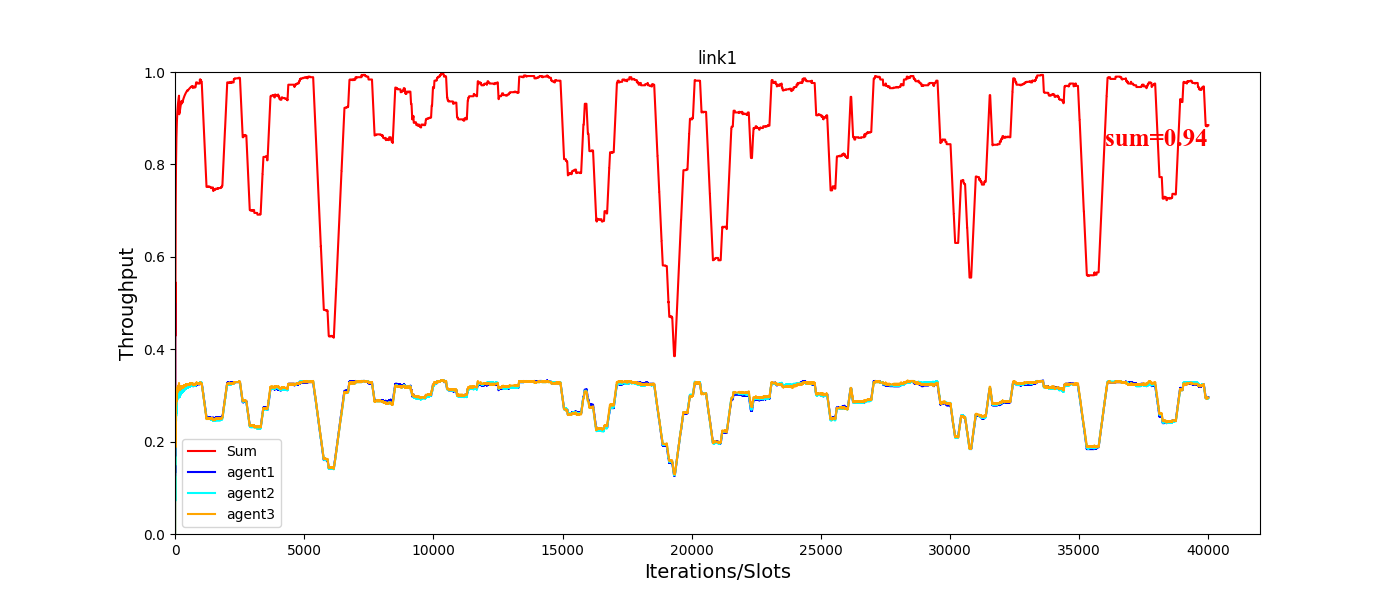
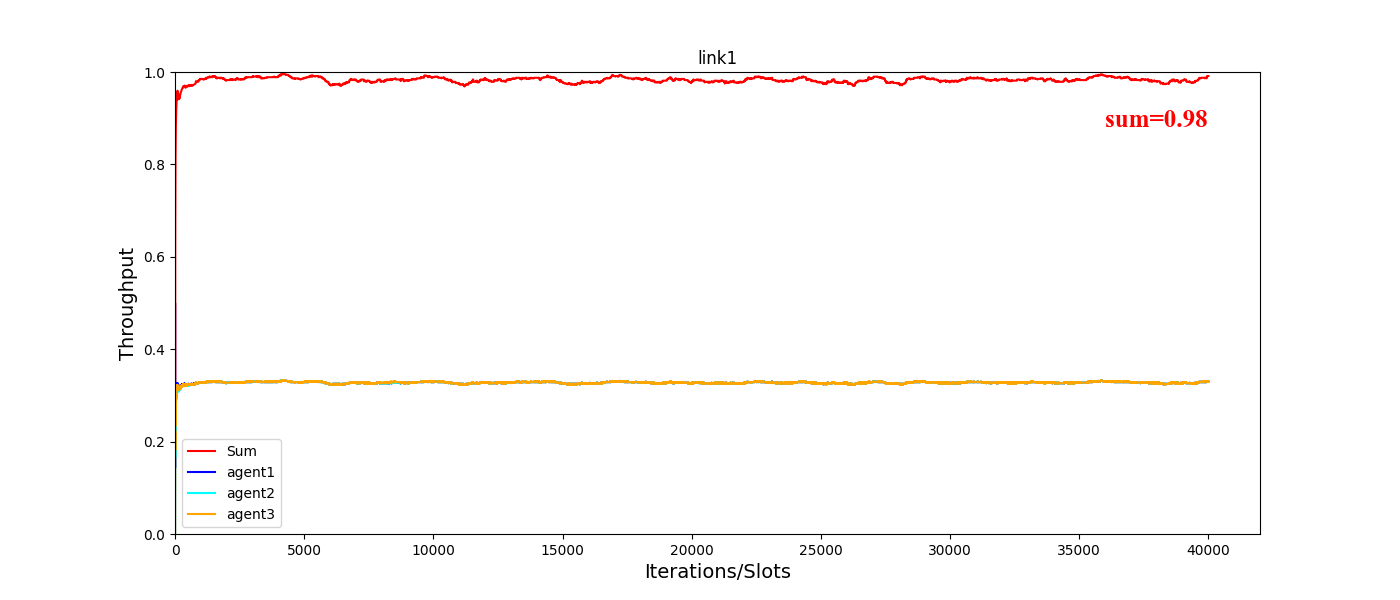
update

diff --git a/simulation.py b/simulation.py
@@ -51,7 +51,7 @@ class Simulation:
             for t_i in tqdm(range(self.episode_length)):
                 actions = {} # 各个agents行为的汇总
                 for ag in self.agents:
-                    action = ag.take_action(explore=False) # 返回一个列表，里面有三个元素，分别表示三个agent的action数组
+                    action = ag.take_action(explore=False, eps=0.01) # 返回一个列表，里面有三个元素，分别表示三个agent的action数组
                     actions[ag.id] = action
                     # print(ag.states_mem, ag.last_action)
                 link_ret = self.env.step(actions) # 单链路返回值

diff --git a/agent.py b/agent.py
@@ -64,7 +64,7 @@ class Agent: # 训练使用MADDPG，测试时只需要使用actor而不需要cri
         if explore:
             action = gumbel_softmax(action)
         else:
-            action = onehot_from_logits(action, eps=0.0)
+            action = onehot_from_logits(action, eps=eps)
         # detach(): 返回一个新的Tensor，但返回的结果是没有梯度的;numpy()将tensor转变为数组；[0]相当于去掉一个[]
         self.last_action = action.detach().cpu().numpy()[0]
         return self.last_action

diff --git a/env.py b/env.py
@@ -34,4 +34,6 @@ class env_SL(object):
         elif len(send_list) > 1: # 发生碰撞
             self.link_ret['occupy_id'] = -1
             return self.link_ret
-        return self.link_ret
+        else: # 空闲
+            self.link_ret['occupy_id'] = 0
+            return self.link_ret
